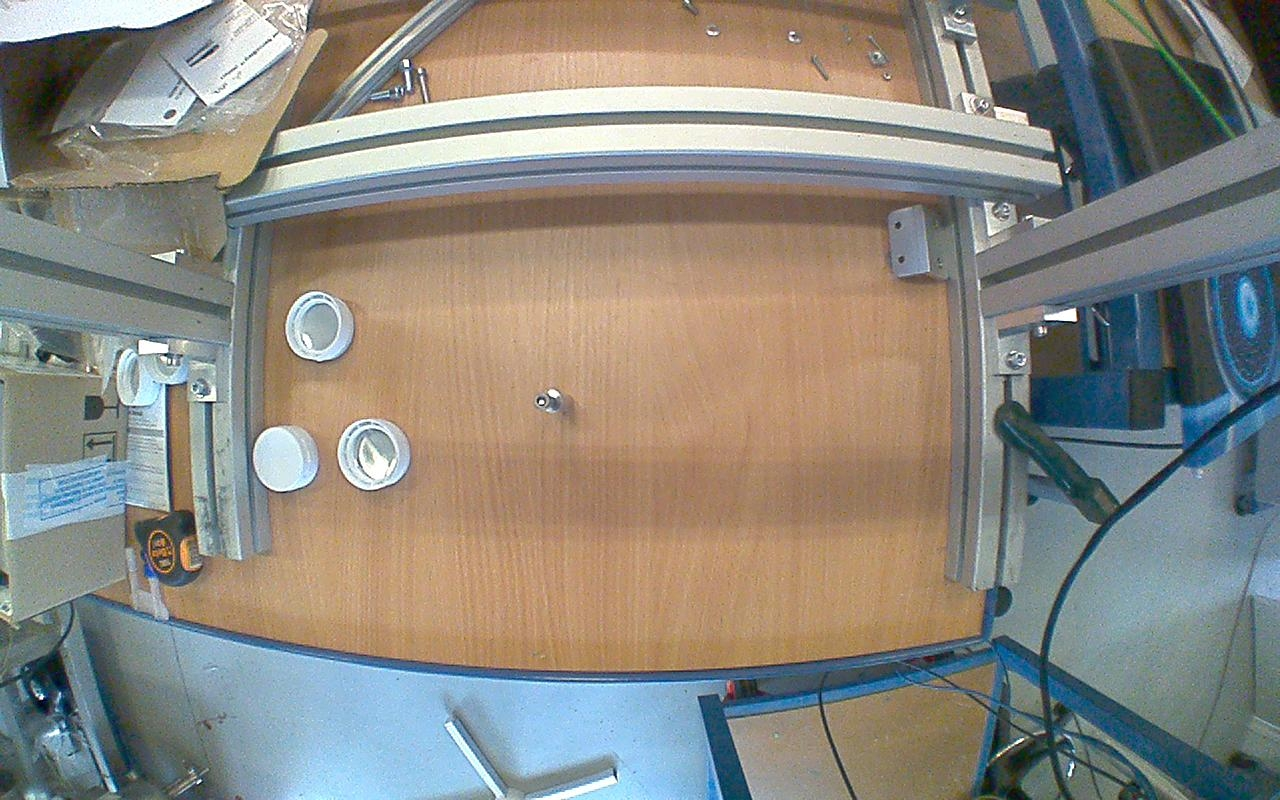
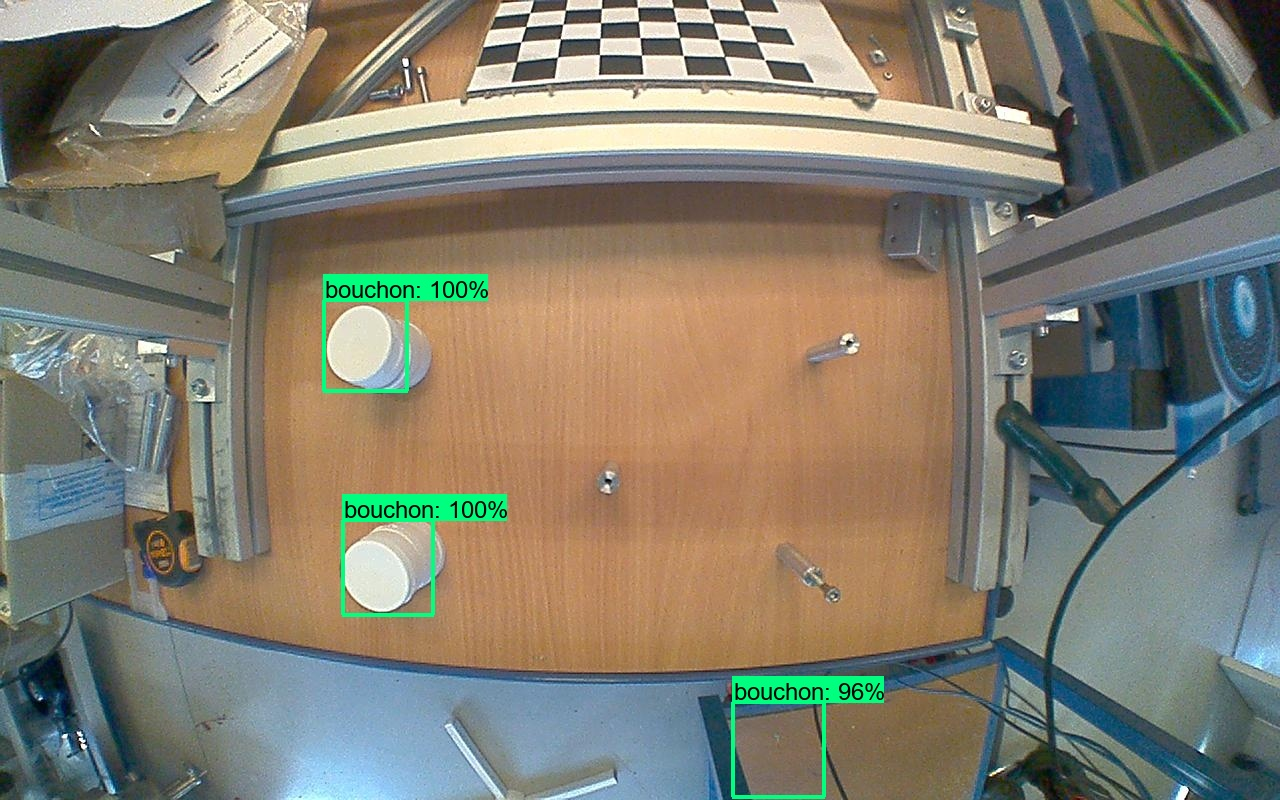
manual fish eye corrected

diff --git a/Correct_fisheye.py b/Correct_fisheye.py
@@ -5,9 +5,9 @@ import matplotlib.pyplot as plt
 from PIL import Image
 
 # You should replace these 3 lines with the output in calibration step
-DIM=(1280, 800)
-K=np.array([[570.745531298554, 0.0, 634.754590876372], [0.0, 571.2493277542346, 383.15948388971617], [0.0, 0.0, 1.0]])
-D=np.array([[-0.026460843727798892], [0.12044929366868225], [-0.16522872093012023], [0.07746898581641035]])
+DIM=(960, 740)
+K=np.array([[572.632377821686, 0.0, 502.3727883845666], [0.0, 571.8920800894838, 353.64151728979175], [0.0, 0.0, 1.0]])
+D=np.array([[-0.023857951257414998], [0.06540923457587092], [-0.059851021477875854], [0.0081709509065374]])
 
 def undistort(img_path):
     img = cv2.imread(img_path)
@@ -18,9 +18,9 @@ def undistort(img_path):
     #cv2.waitKey(0)
     #cv2.destroyAllWindows()
 
-    cv2.imwrite('undistorted.jpeg', undistorted_img)
-    image = Image.open('undistorted.jpeg')
+    cv2.imwrite('undistorded0.png', undistorted_img)
+    image = Image.open('undistorted0.png')
     image.show()
 if __name__ == '__main__':
 #    for p in sys.argv[1:]:
-    undistort("D:\Code\OVP800_IFM\myfilename3D.png")
+    undistort("bouchon26.png")

diff --git a/Calibrate.py b/Calibrate.py
@@ -12,7 +12,7 @@ objp[0,:,:2] = np.mgrid[0:CHECKERBOARD[0], 0:CHECKERBOARD[1]].T.reshape(-1, 2)
 _img_shape = None
 objpoints = [] # 3d point in real world space
 imgpoints = [] # 2d points in image plane.
-images = glob.glob('*.png') # tested with jpg and PNG
+images = glob.glob('*.JPG') # tested with jpg and PNG
 for fname in images:
     img = cv2.imread(fname)
     if _img_shape == None:

diff --git a/Recadrer.py b/Recadrer.py
@@ -1,8 +1,8 @@
 import cv2
-img = cv2.imread("myfilename2D0.jpg")
-x=160
+img = cv2.imread("myfilename2D0.png")
+x=125 # decalage de 35px entre capteur 2D et 3D
 y=30
 w=960
 h=740
 crop_img = img[y:y+h, x:x+w]
-cv2.imwrite('1.JPG',crop_img)
+cv2.imwrite('bouchon26.png',crop_img)
